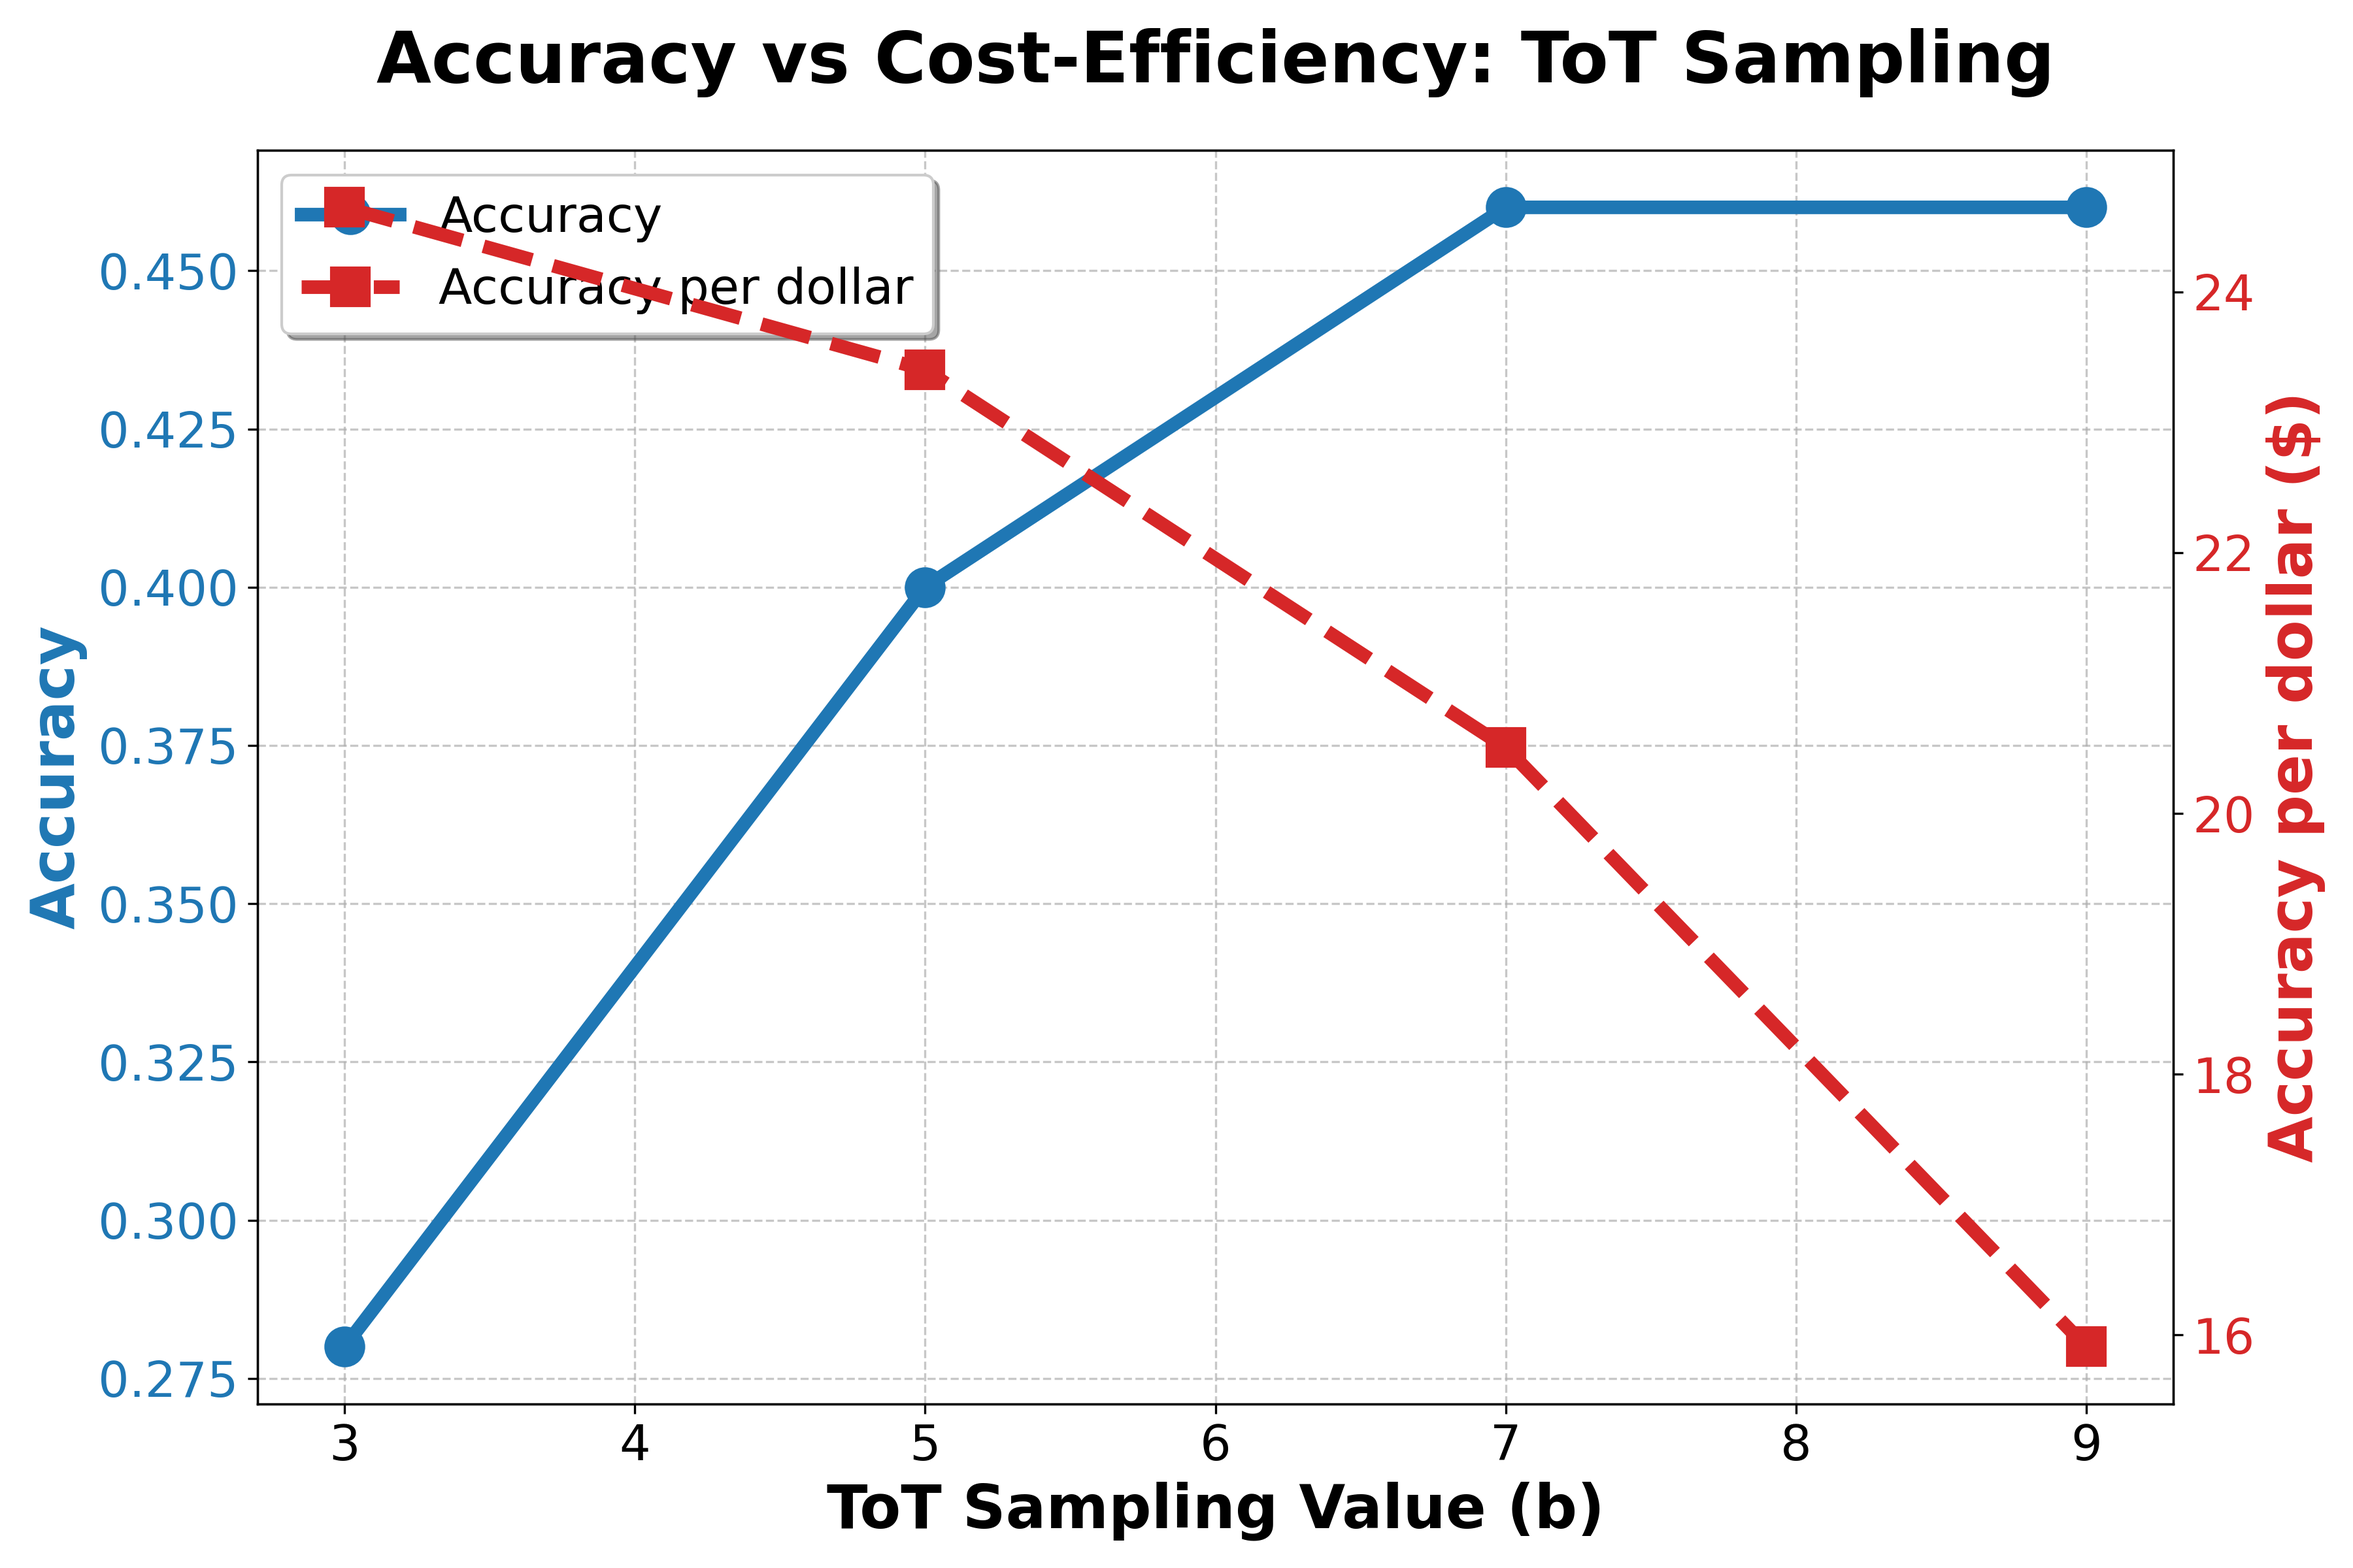
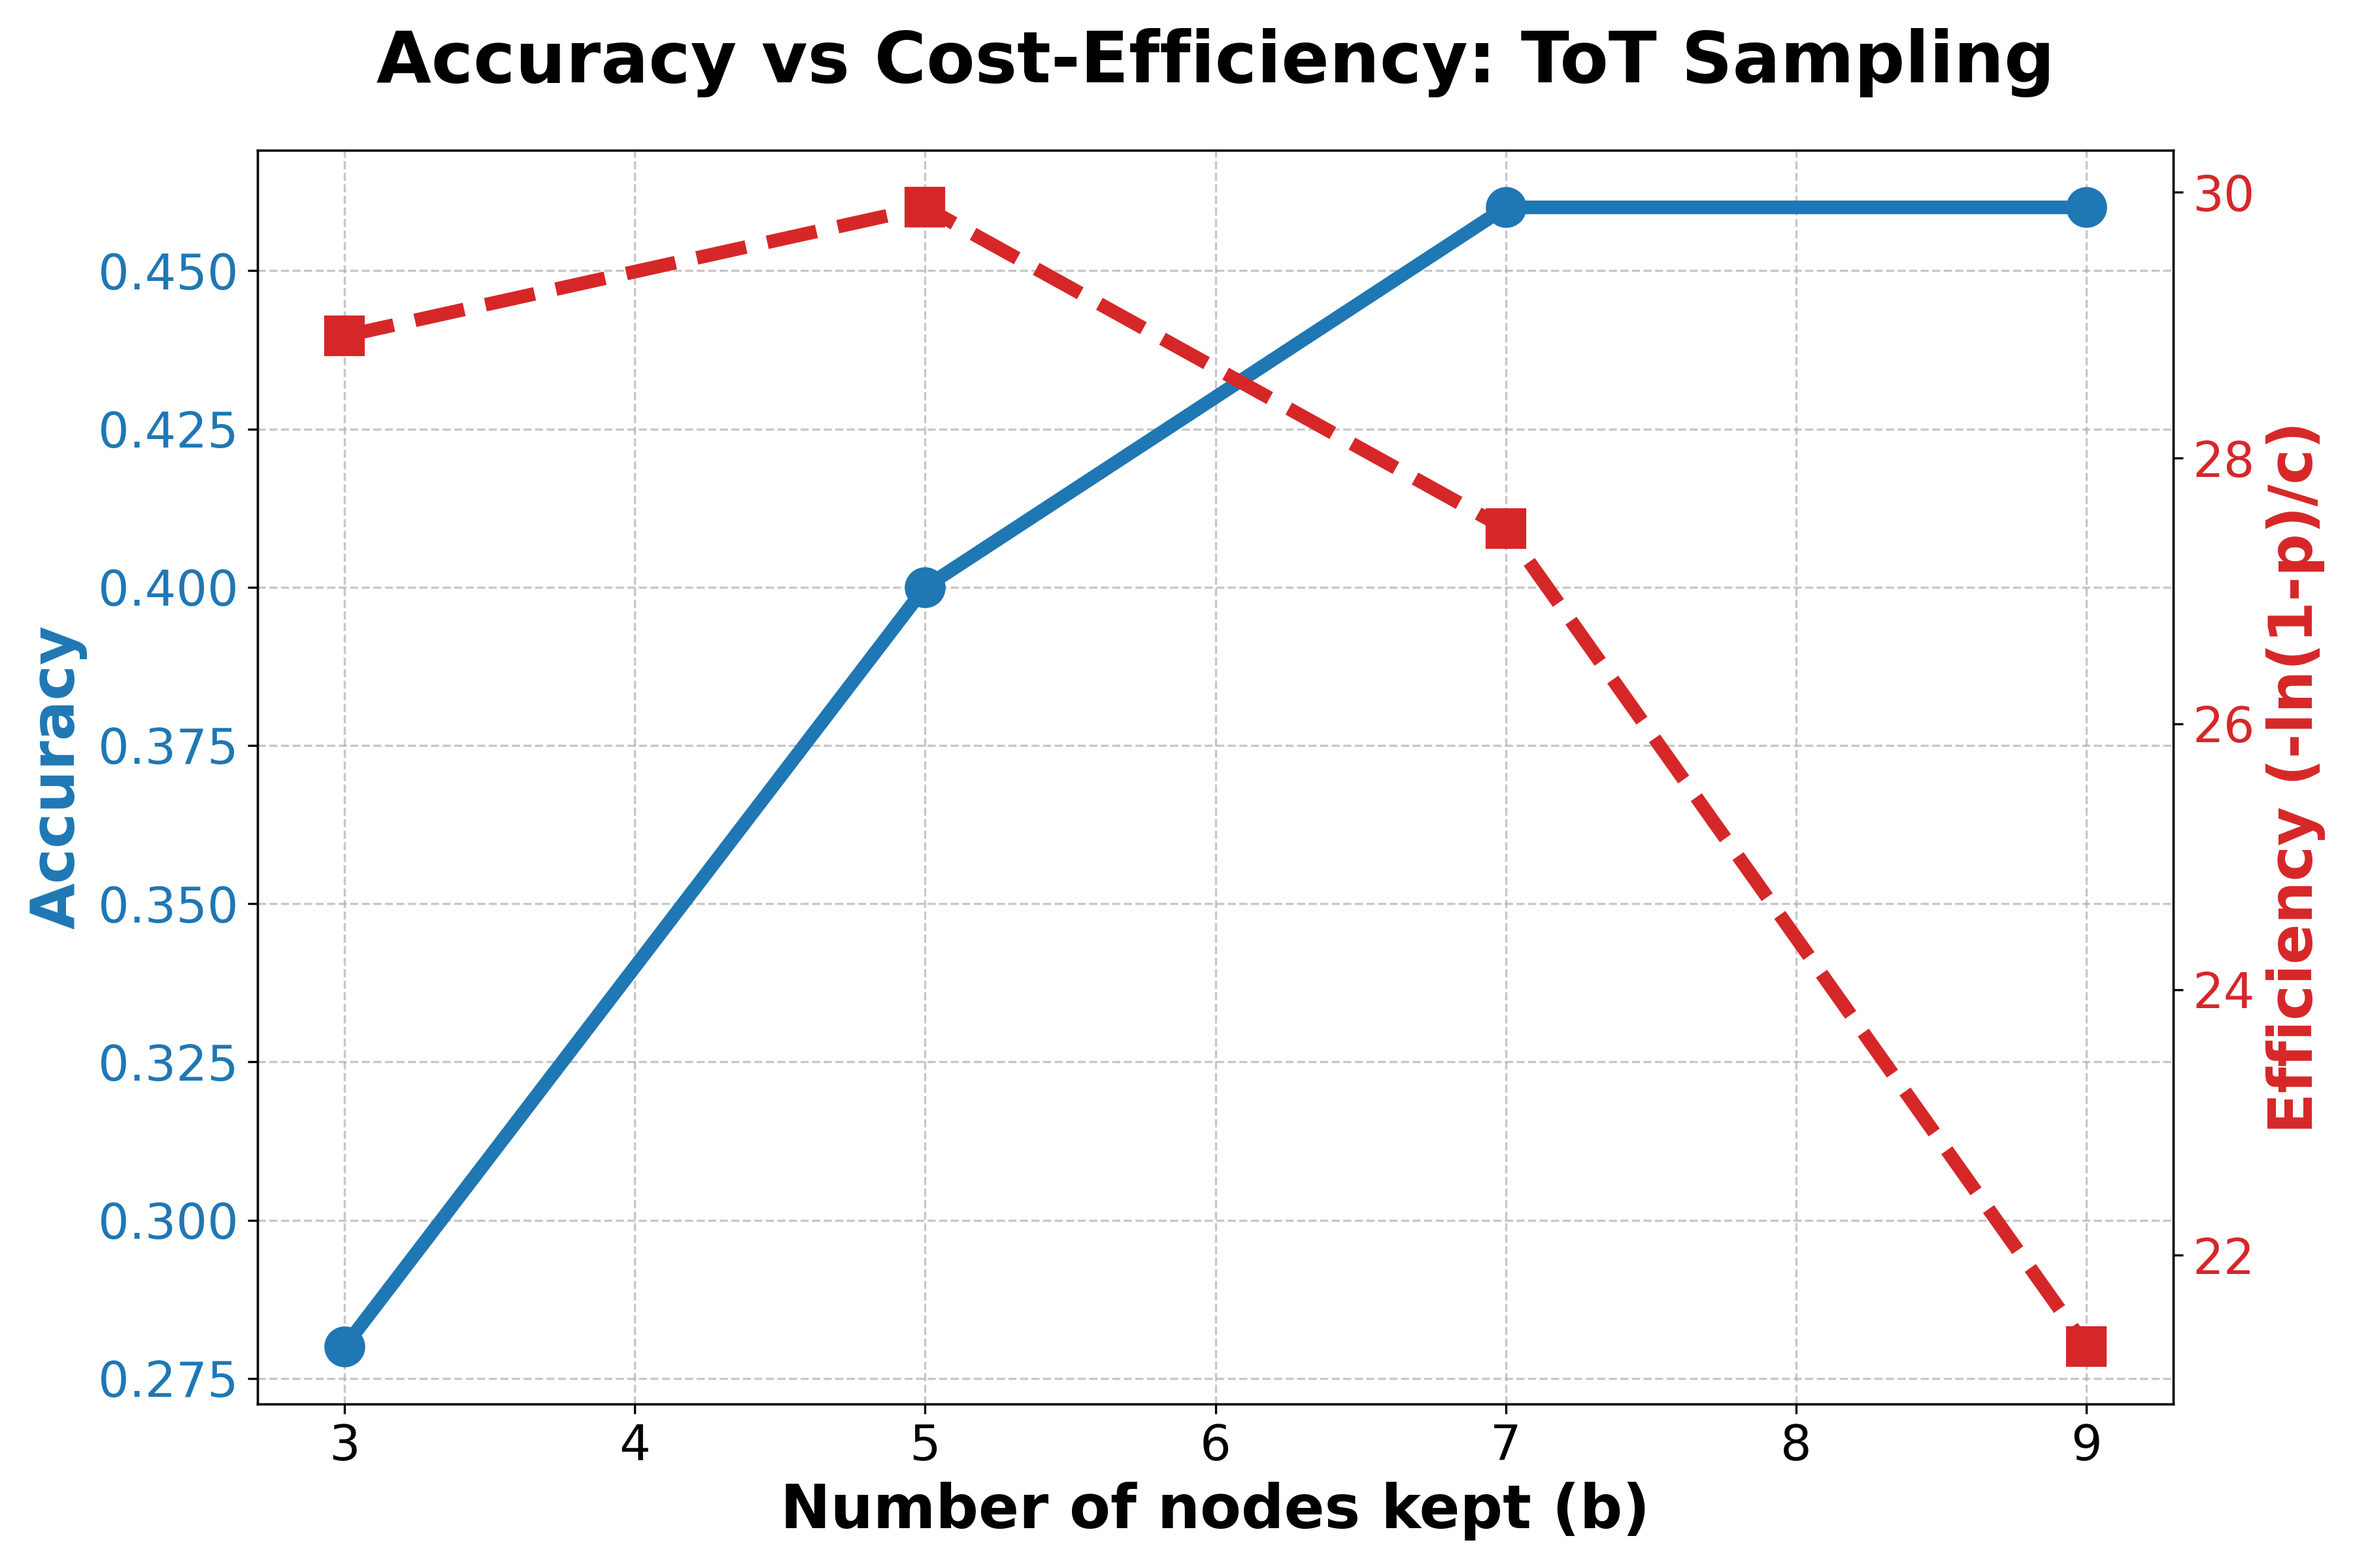
final visualizations

diff --git a/visualization/plotting.py b/visualization/plotting.py
@@ -8,7 +8,7 @@ df = pd.read_csv(file_path)
 def create_dual_axis_plot_poster(data, title, xlabel, filename):
     """Generates a high-visibility plot for posters with large fonts and thick lines."""
     # Ensure data is clean for plotting
-    data = data.dropna(subset=[data.columns[0], 'Accuracy', 'Accuracy per dollar'])
+    data = data.dropna(subset=[data.columns[0], 'Accuracy', 'Efficiency'])
     
     fig, ax1 = plt.subplots(figsize=(12, 8))
 
@@ -34,17 +34,17 @@ def create_dual_axis_plot_poster(data, title, xlabel, filename):
     # Right Axis: Accuracy per dollar
     ax2 = ax1.twinx()
     color_cost = 'tab:red'
-    ax2.set_ylabel('Accuracy per dollar ($)', color=color_cost, fontsize=LABEL_SIZE, fontweight='bold')
-    line2 = ax2.plot(data.iloc[:, 0].astype(float), data['Accuracy per dollar'], 
+    ax2.set_ylabel('Efficiency (-ln(1-p)/c)', color=color_cost, fontsize=LABEL_SIZE, fontweight='bold')
+    line2 = ax2.plot(data.iloc[:, 0].astype(float), data['Efficiency'], 
                      marker='s', markersize=MARKER_SIZE, linestyle='--', color=color_cost, 
-                     linewidth=LINE_WIDTH, label='Accuracy per dollar')
+                     linewidth=LINE_WIDTH, label='Efficiency (-ln(1-p)/c)')
     ax2.tick_params(axis='y', labelcolor=color_cost, labelsize=TICK_SIZE)
 
     # Title and Legend
     plt.title(title, fontsize=TITLE_SIZE, pad=25, fontweight='bold')
     lines = line1 + line2
     labels = [l.get_label() for l in lines]
-    ax1.legend(lines, labels, loc='upper left', frameon=True, fontsize=LEGEND_SIZE, shadow=True)
+    # ax1.legend(lines, labels, loc='upper left', frameon=True, fontsize=LEGEND_SIZE, shadow=True)
 
     plt.tight_layout()
     # dpi=300 ensures high resolution for physical printing
@@ -59,9 +59,19 @@ create_dual_axis_plot_poster(temp_df, 'Accuracy vs Cost-Efficiency: Temperature'
 # 2. Sampling Experiment
 sampling_df = df.iloc[6:10].copy()
 create_dual_axis_plot_poster(sampling_df, 'Accuracy vs Cost-Efficiency: ToT Sampling', 
-                             'ToT Sampling Value (b)', 'sampling_experiment.png')
+                             'Number of nodes kept (b)', 'sampling_experiment.png')
 
-# 3. CoT Sampling Experiment
-cot_sampling_df = df.iloc[12:18].copy()
-create_dual_axis_plot_poster(cot_sampling_df, 'Accuracy vs Cost-Efficiency: CoT Sampling', 
-                             'CoT Sampling Value (k)', 'cot_sampling_experiment.png')
+# 2. Evaluations Experiment
+sampling_df = df.iloc[12:15].copy()
+create_dual_axis_plot_poster(sampling_df, 'Accuracy vs Cost-Efficiency: ToT Evaluations', 
+                             'Number of evaluations (v)', 'evaluations_experiment.png')
+
+# 3. CoT 4o-mini
+cot_sampling_df = df.iloc[17:21].copy()
+create_dual_axis_plot_poster(cot_sampling_df, 'CoT gpt-4o-mini', 
+                             'Number of retries (k)', 'cot_4omini_experiment.png')
+
+# 4. CoT 5.4-mini
+cot_sampling_df = df.iloc[23:27].copy()
+create_dual_axis_plot_poster(cot_sampling_df, 'CoT gpt-5.4-mini', 
+                             'Number of retries (k)', 'cot_54mini_experiment.png')
